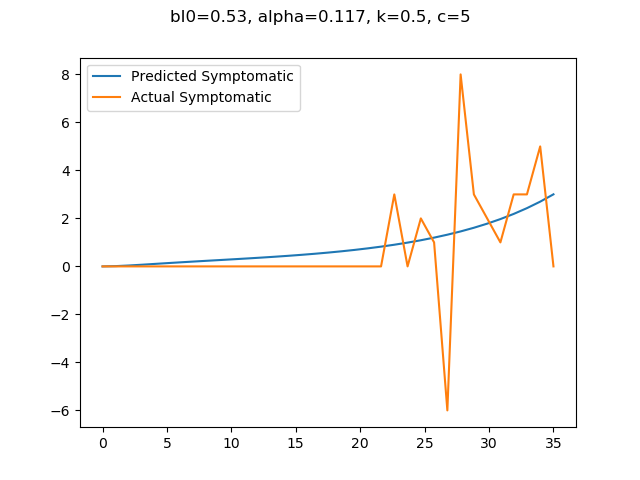
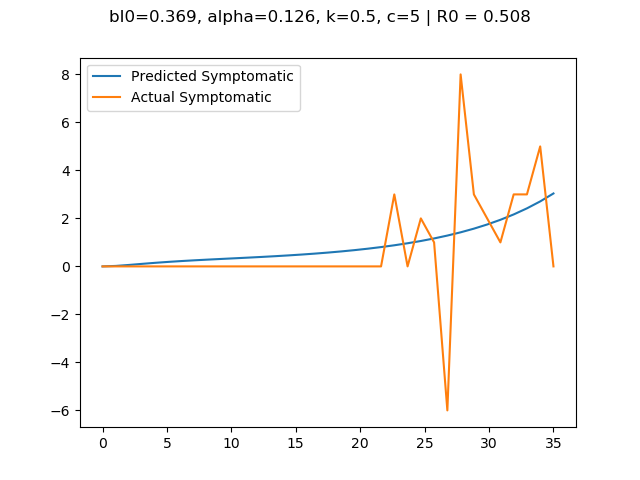
figure updates

diff --git a/covidModel.py b/covidModel.py
@@ -30,7 +30,7 @@ def ODEmodel(vals, t, bI_0, alpha, k, c2, mxstep=50000, full_output=1):
         quit()
     b_I = social_bI(bI_0, alpha, D)
     b_A = 0.5*b_I #transmission from asympt as a a small fraction of symptomatic infection
-    b_P = c2*b_A #transmission from presympt
+    b_P = c2*b_I #transmission from presympt
     # ! low asympyomatic hypothesis
     # b_A = .1 * b_I
     # b_P = c*b_I
@@ -300,7 +300,7 @@ def c1c2_heatmap():
 # conf_incidence = define_dataset(12, 21)
 
 global y0
-# richmond pop 230436
+# richmond pop 230436 , philly 1526000
 y0 = [1526000,1,0,0,0,0,0,0] #define population
 conf_data = np.genfromtxt('COVID_city_county_new.csv', dtype=str,delimiter=",") #this is the incidence
 print(conf_data[12][2]) #print the name of the county
@@ -312,14 +312,13 @@ conf_incidence = pre_incidence[34:]
 global t
 t = np.linspace(0,len(conf_incidence),num=len(conf_incidence))
 
-k = .5
-c = 5
-bI0, alpha = SD_curve_fit(k, c).x
-cost = SD_curve_fit(k, c).cost
-plot_for_vals(conf_incidence, bI0, alpha, k, c)
-# plot_reffective(conf_incidence, bI0, alpha, k, c)
+# k = .5
+# c = 5
+# bI0, alpha = SD_curve_fit(k, c).x
+# cost = SD_curve_fit(k, c).cost
+# plot_for_vals(conf_incidence, bI0, alpha, k, c)
 
-# cost_heatmap()
+cost_heatmap()
 
 plt.legend()
 plt.show()
